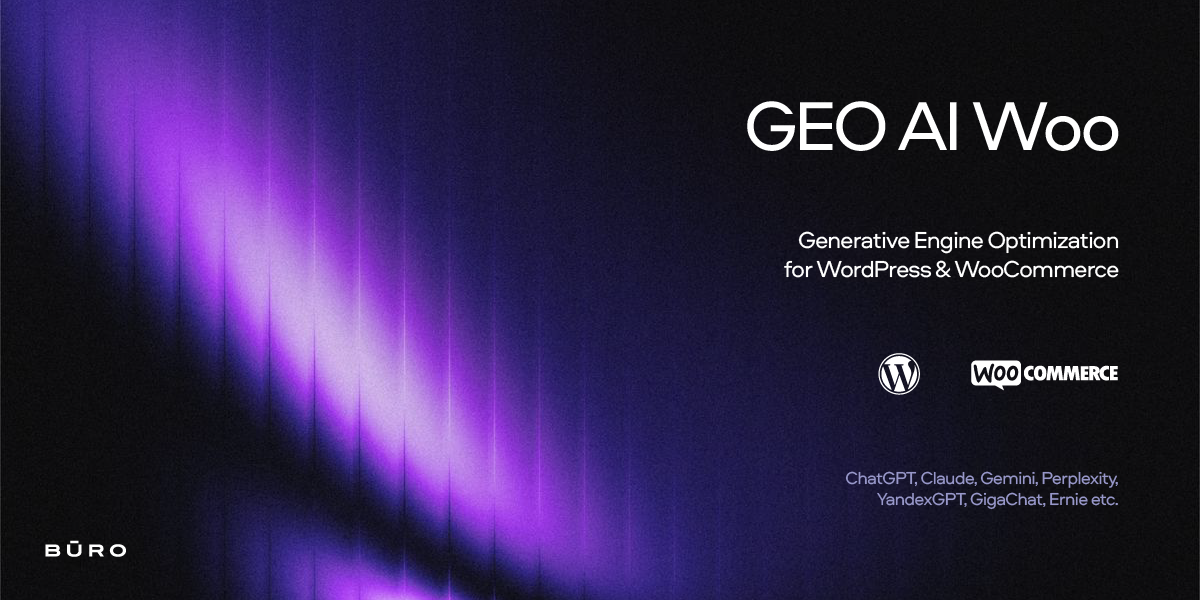
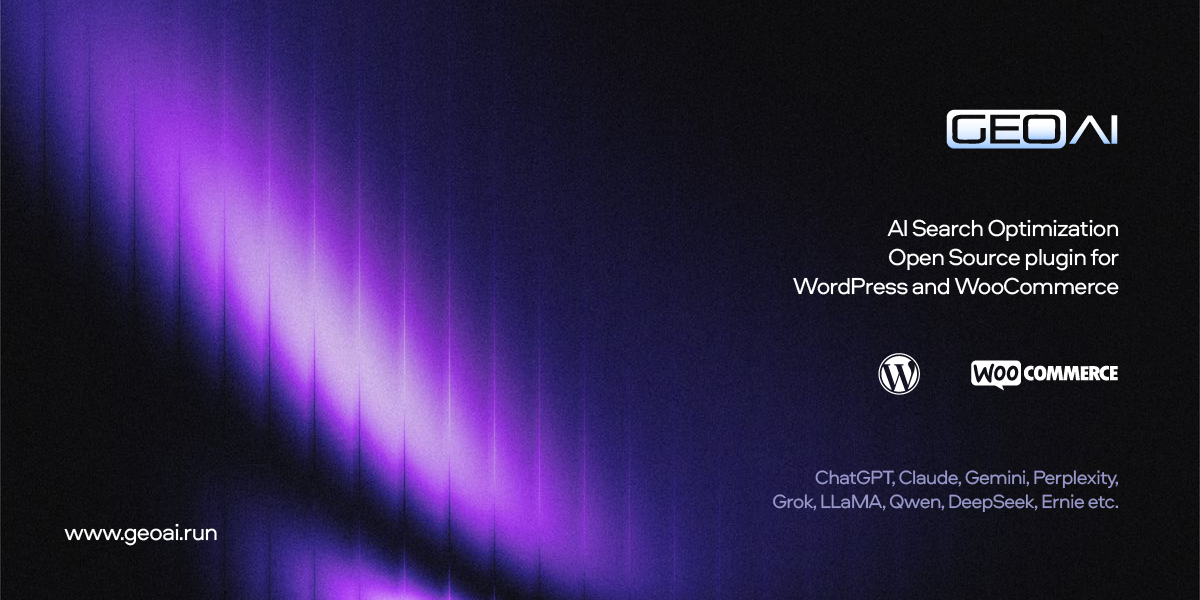
docs: update README with GEO AI ecosystem section and CLI docs

diff --git a/README.md b/README.md
@@ -18,6 +18,58 @@ Try the analyzer at [geoai.run/analyze](https://www.geoai.run/analyze)
 
 ---
 
+## GEO AI Ecosystem
+
+GEO AI is a multi-platform framework for AI Search Optimization (GEO) — making your content visible and structured for AI-powered search engines and LLMs.
+
+Website: [geoai.run](https://www.geoai.run) | Core engine: [github.com/madeburo/GEO-AI](https://github.com/madeburo/GEO-AI)
+
+| Module | Platform | Description |
+|--------|----------|-------------|
+| **GEO AI Woo** *(this plugin)* | WordPress / WooCommerce | llms.txt generation, AI meta, crawler rules, WooCommerce integration |
+| **GEO AI CLI** | Node.js ≥ 20 | Generate llms.txt and llms-full.txt from the command line — framework-agnostic, build-time, zero runtime overhead |
+| **GEO AI Next** | Next.js | GEO middleware and static generation for Next.js apps |
+| **GEO AI Core** | Node.js | TypeScript engine powering the CLI and other integrations |
+| **GEO AI** | Shopify | GEO optimization for Shopify stores |
+
+### GEO AI CLI
+
+Generate `llms.txt` and `llms-full.txt` for any Node.js project — works with Express, Fastify, Remix, static site generators, or any custom build pipeline.
+
+```bash
+# Install locally (recommended)
+npm install --save-dev geo-ai-cli
+
+# Or globally
+npm install -g geo-ai-cli
+```
+
+```bash
+# Scaffold geo-ai.config.ts
+npx geo-ai init
+
+# Write llms.txt + llms-full.txt to ./public
+npx geo-ai generate
+
+# Verify the output
+npx geo-ai validate
+```
+
+**Commands:**
+
+| Command | Description |
+|---------|-------------|
+| `geo-ai init` | Scaffolds a typed `geo-ai.config.ts` starter file |
+| `geo-ai generate` | Reads config and writes `llms.txt` + `llms-full.txt` to `./public` (or custom `--out` path) |
+| `geo-ai validate` | Checks that output files are present and valid — works on local files or remote URLs via `--url` |
+| `geo-ai inspect` | Previews config: site info, crawler rules, resource sections with item counts |
+
+CI/CD friendly — exits with code `1` on validation failure.
+
+Docs: [geoai.run/docs/integrations/cli](https://www.geoai.run/docs/integrations/cli) | GitHub: [madeburo/GEO-AI](https://github.com/madeburo/GEO-AI)
+
+---
+
 ## Features
 
 ### llms.txt Generator
@@ -195,24 +247,6 @@ geo-ai-woo/
 
 ---
 
-## GEO AI Ecosystem
-
-GEO AI – AI Search Optimization. A multi-platform framework.
-
-Website: https://www.geoai.run
-
-Works with:
-- WordPress
-- WooCommerce
-- Shopify
-- Next.js
-- Node.js
-
-Website: https://www.geoai.run
-Core engine: https://github.com/madeburo/GEO-AI
-
----
-
 ## Contributing
 
 Contributions are welcome! Please feel free to open issues or submit pull requests.
@@ -233,6 +267,6 @@ GEO AI Woo is open-source software licensed under the [GPL v2](LICENSE).
 ## Credits
 
 - **Author:** Made Büro
-- **Website:** [madeburo.com](https://madeburo.com)
+- **Website:** [geoai.run](https://www.geoai.run)
 - **GitHub:** [@madeburo](https://github.com/madeburo)
 - **X:** [@imadeburo](https://x.com/imadeburo)
